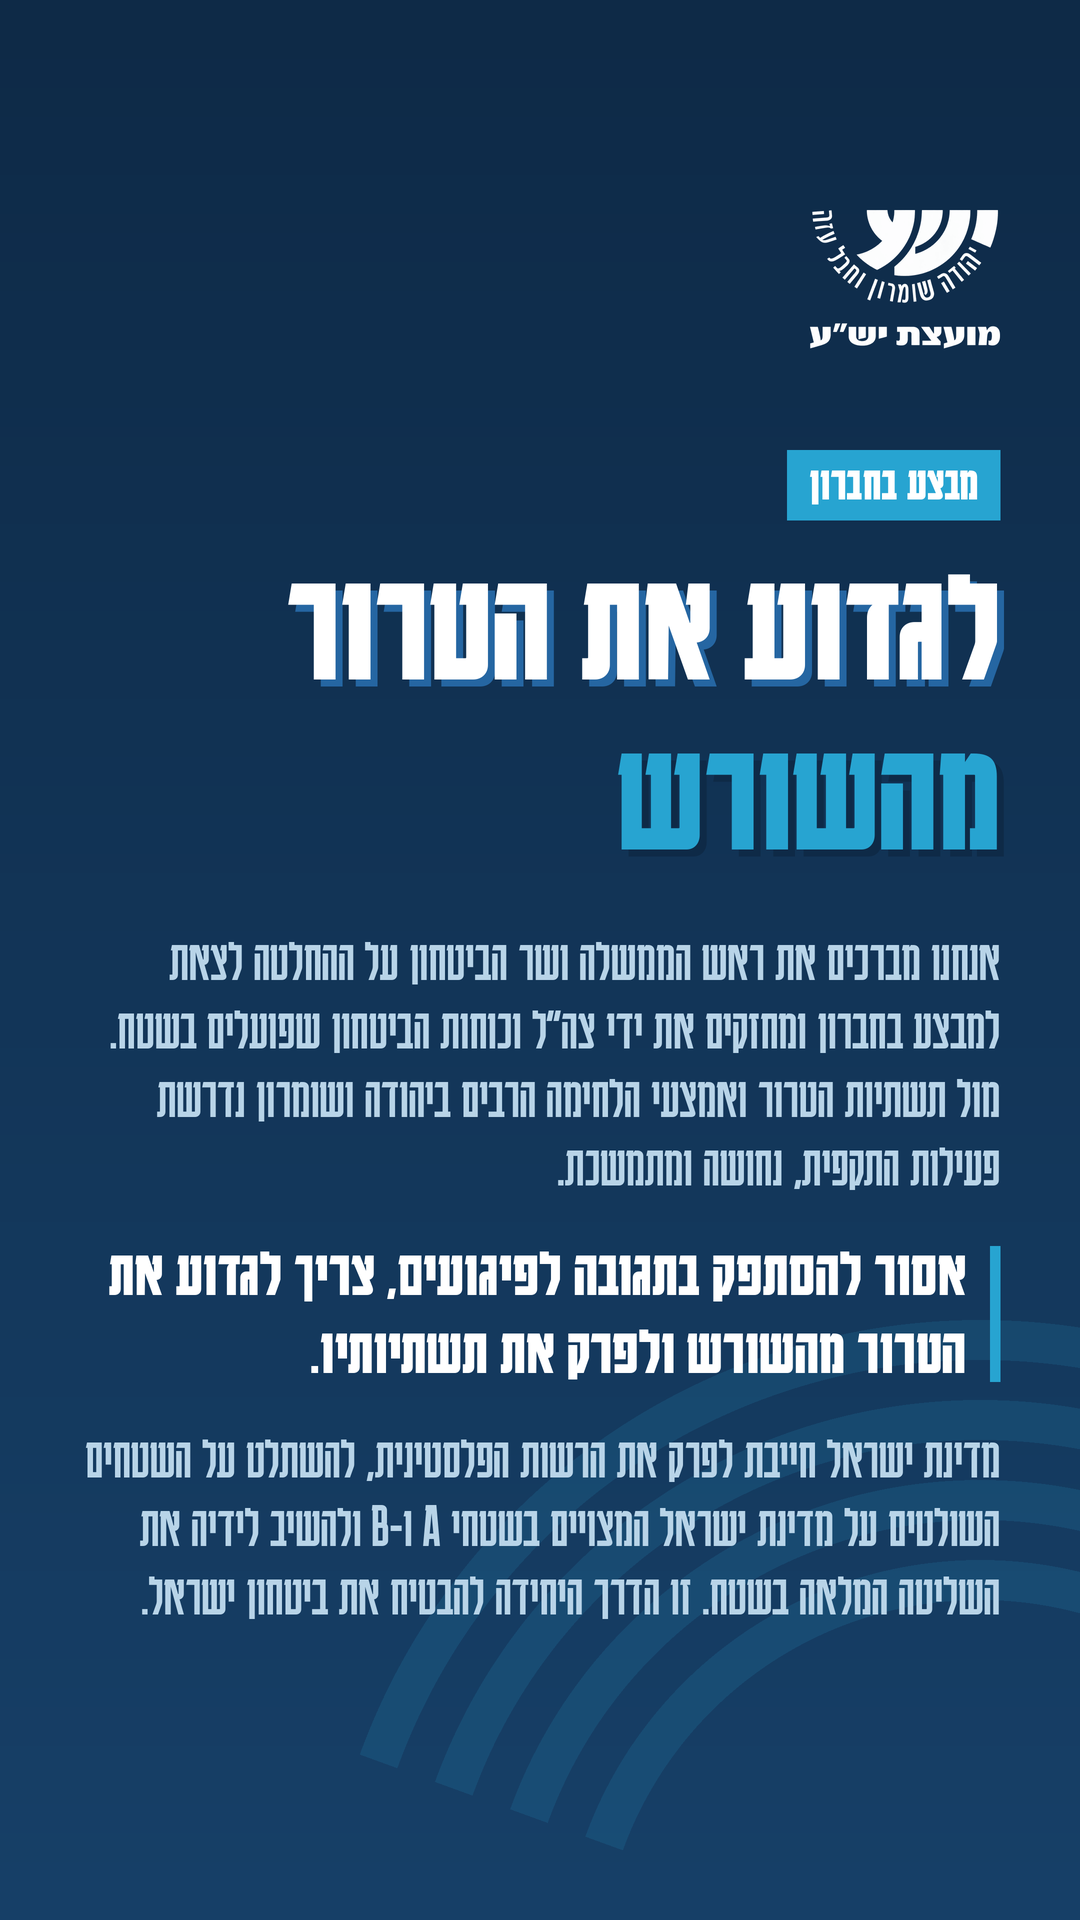
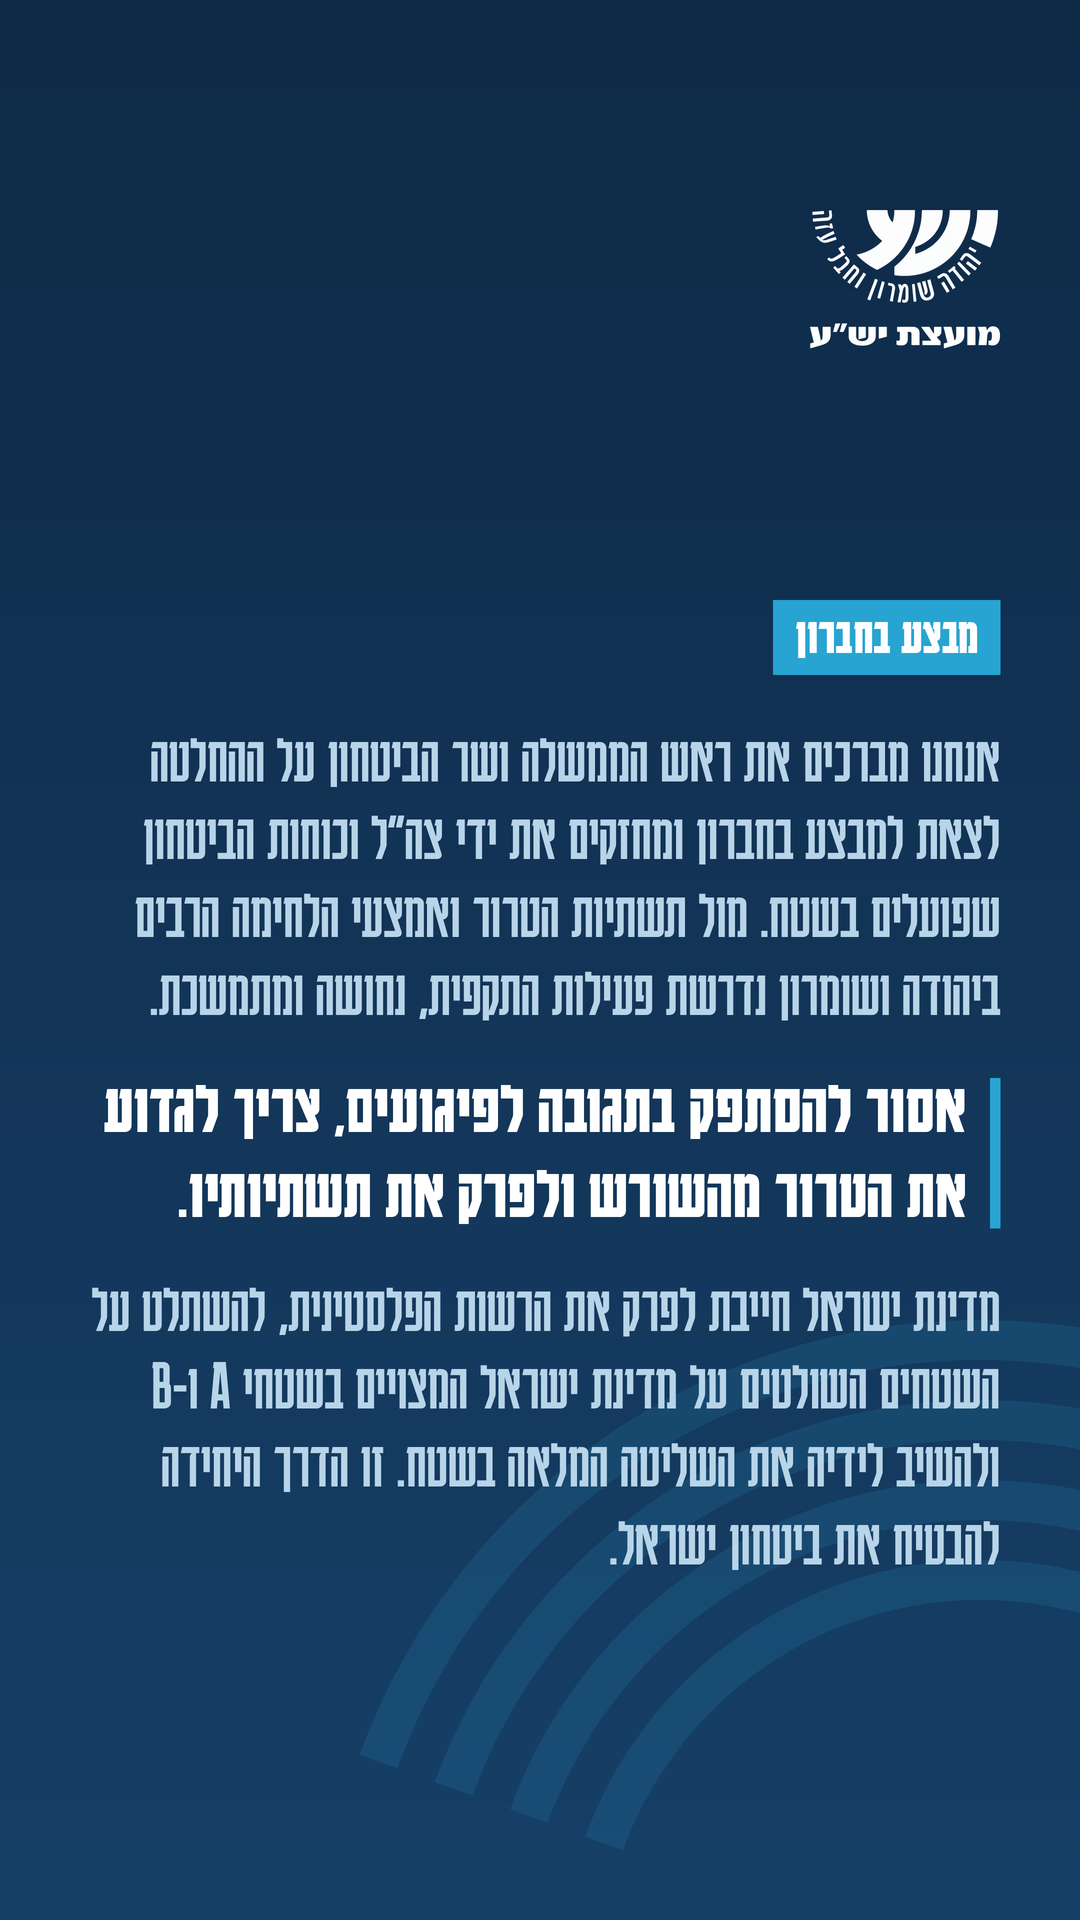
Yesha Hebron story: drop headline
Claude-Session: https://claude.ai/code/session_01RS3QK6pAd3YhyAuXZSJjH1

Changed region(s): [[0.0611, 0.2188, 0.9472, 0.8438]]

diff --git a/content-kit/yesha/2026-10-story-hebron-statement/make.py b/content-kit/yesha/2026-10-story-hebron-statement/make.py
@@ -22,14 +22,11 @@ def para(s, size, y, color, bold=False, lh=1.18, indent=0):
         text(d, (W - M - indent, y), ln, size, color, bold=bold); y += size * lh
     return y
 
-Y0 = 450
-y = tag(d, Y0, 'מבצע בחברון', 48, bg=LB)
-text(d, (W - M, Y0 + y + 22), 'לגדוע את הטרור', 160, WHITE, shadow=(7, 7, BLUE))
-text(d, (W - M, Y0 + y + 192), 'מהשורש', 160, LB, shadow=(7, 7, DEEP))
-y = Y0 + y + 410
-y = para(P1, 58, y, SOFT)
+Y0 = 600
+y = Y0 + tag(d, Y0, 'מבצע בחברון', 52, bg=LB) + 50
+y = para(P1, 66, y, SOFT)
 y += 34
-y2 = para(P2, 66, y, WHITE, bold=True, indent=34)
+y2 = para(P2, 72, y, WHITE, bold=True, indent=34)
 d.rectangle(P(W - M - 10, y + 8, W - M, y2 - 12), fill=LB)            # accent bar beside the key line
-y = para(P3, 58, y2 + 34, SOFT)
+y = para(P3, 66, y2 + 34, SOFT)
 img.resize((W, H), Image.LANCZOS).save(OUT + '/yesha-story-hebron.png'); print('end y', y)
